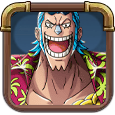
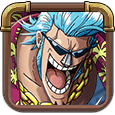
feat(structure): update

diff --git a/lib/src/data/character_data.dart b/lib/src/data/character_data.dart
@@ -4,61 +4,51 @@ const CHARACTER_DATA = {
   '1': CharacterModel(
     id: '1',
     name: 'Monkey D. Luffy',
-    pathIcon: 'assets/images/characters/1_icon.png',
-    pathImage: 'assets/images/characters/1_icon.png',
+    image: '1',
   ),
   '2': CharacterModel(
     id: '2',
     name: 'Roronoa Zoro',
-    pathIcon: 'assets/images/characters/2_icon.png',
-    pathImage: 'assets/images/characters/2_icon.png',
+    image: '2',
   ),
   '3': CharacterModel(
     id: '3',
     name: 'Nami',
-    pathIcon: 'assets/images/characters/3_icon.png',
-    pathImage: 'assets/images/characters/3_icon.png',
+    image: '3',
   ),
   '4': CharacterModel(
     id: '4',
     name: 'Usopp',
-    pathIcon: 'assets/images/characters/4_icon.png',
-    pathImage: 'assets/images/characters/4_icon.png',
+    image: '4',
   ),
   '5': CharacterModel(
     id: '5',
     name: 'Sanji',
-    pathIcon: 'assets/images/characters/5_icon.png',
-    pathImage: 'assets/images/characters/5_icon.png',
+    image: '5',
   ),
   '6': CharacterModel(
     id: '6',
     name: 'Tony Tony Chopper',
-    pathIcon: 'assets/images/characters/6_icon.png',
-    pathImage: 'assets/images/characters/6_icon.png',
+    image: '6',
   ),
   '7': CharacterModel(
     id: '7',
     name: 'Nico Robin',
-    pathIcon: 'assets/images/characters/7_icon.png',
-    pathImage: 'assets/images/characters/7_icon.png',
+    image: '7',
   ),
   '8': CharacterModel(
     id: '8',
     name: 'Franky',
-    pathIcon: 'assets/images/characters/8_icon.png',
-    pathImage: 'assets/images/characters/8_icon.png',
+    image: '8',
   ),
   '9': CharacterModel(
     id: '9',
     name: 'Brook',
-    pathIcon: 'assets/images/characters/9_icon.png',
-    pathImage: 'assets/images/characters/9_icon.png',
+    image: '9',
   ),
   '10': CharacterModel(
     id: '10',
     name: 'Jinbe',
-    pathIcon: 'assets/images/characters/10_icon.png',
-    pathImage: 'assets/images/characters/10_icon.png',
+    image: '10',
   ),
 };

diff --git a/lib/src/views/show_character.dart b/lib/src/views/show_character.dart
@@ -1,4 +1,4 @@
-import 'package:fanbase_piece/src/components/main_background.dart';
+import 'package:fanbase_piece/src/components/character_background.dart';
 import 'package:fanbase_piece/src/components/menu_bar.dart';
 import 'package:fanbase_piece/src/models/character_model.dart';
 import 'package:flutter/material.dart';
@@ -29,17 +29,42 @@ class _ShowCharacterState extends State<ShowCharacter> {
     return Scaffold(
       body: Stack(
         children: [
-          MainBackground(),
+          CharacterBackground(),
           MenuBar(
-            title: 'Model',
+            title: 'Informações',
             enableBack: true,
           ),
           Container(
             margin: EdgeInsets.only(
-              top: 180,
+              top: MediaQuery.of(context).size.width * 0.20,
             ),
             child: Center(
-              child: Text(_character.name),
+              child: AspectRatio(
+                aspectRatio: 13.0 / 10.0,
+                child: Image(
+                  image: AssetImage(
+                      'assets/images/characters/${_character.image}.png'),
+                  fit: BoxFit.contain,
+                  alignment: Alignment.center,
+                ),
+              ),
+            ),
+          ),
+          Positioned.fill(
+            child: Align(
+              alignment: Alignment.bottomCenter,
+              child: Container(
+                height: MediaQuery.of(context).size.height * 0.40,
+                decoration: BoxDecoration(
+                  image: DecorationImage(
+                    image: AssetImage('assets/images/character_footer.png'),
+                    fit: BoxFit.fill,
+                  ),
+                ),
+                child: Center(
+                  child: Text('Texto'),
+                ),
+              ),
             ),
           ),
         ],

diff --git a/lib/src/components/character_background.dart b/lib/src/components/character_background.dart
@@ -1,0 +1,18 @@
+import 'package:flutter/material.dart';
+
+class CharacterBackground extends StatelessWidget {
+  const CharacterBackground({Key? key}) : super(key: key);
+
+  @override
+  Widget build(BuildContext context) {
+    return Container(
+      decoration: BoxDecoration(
+        image: DecorationImage(
+          image: AssetImage('assets/images/character_bg.jpg'),
+          fit: BoxFit.fill,
+        ),
+        color: Colors.black,
+      ),
+    );
+  }
+}

diff --git a/lib/src/components/grid_card_character.dart b/lib/src/components/grid_card_character.dart
@@ -26,7 +26,8 @@ class GridCardCharacter extends StatelessWidget {
                 AspectRatio(
                   aspectRatio: 13.0 / 10.0,
                   child: Image(
-                    image: AssetImage(character.pathIcon),
+                    image: AssetImage(
+                        'assets/images/characters/${character.image}_icon.png'),
                     fit: BoxFit.contain,
                     alignment: Alignment.center,
                   ),

diff --git a/lib/src/models/character_model.dart b/lib/src/models/character_model.dart
@@ -1,13 +1,11 @@
 class CharacterModel {
   final String id;
   final String name;
-  final String pathIcon;
-  final String pathImage;
+  final String image;
 
   const CharacterModel({
     required this.id,
     required this.name,
-    required this.pathIcon,
-    required this.pathImage,
+    required this.image,
   });
 }

diff --git a/lib/src/utils/utils.dart b/lib/src/utils/utils.dart
@@ -13,8 +13,7 @@ class Utils {
               () => CharacterModel(
                 id: key,
                 name: value.name,
-                pathIcon: value.pathIcon,
-                pathImage: value.pathImage,
+                image: value.image,
               ),
             ),
           },
